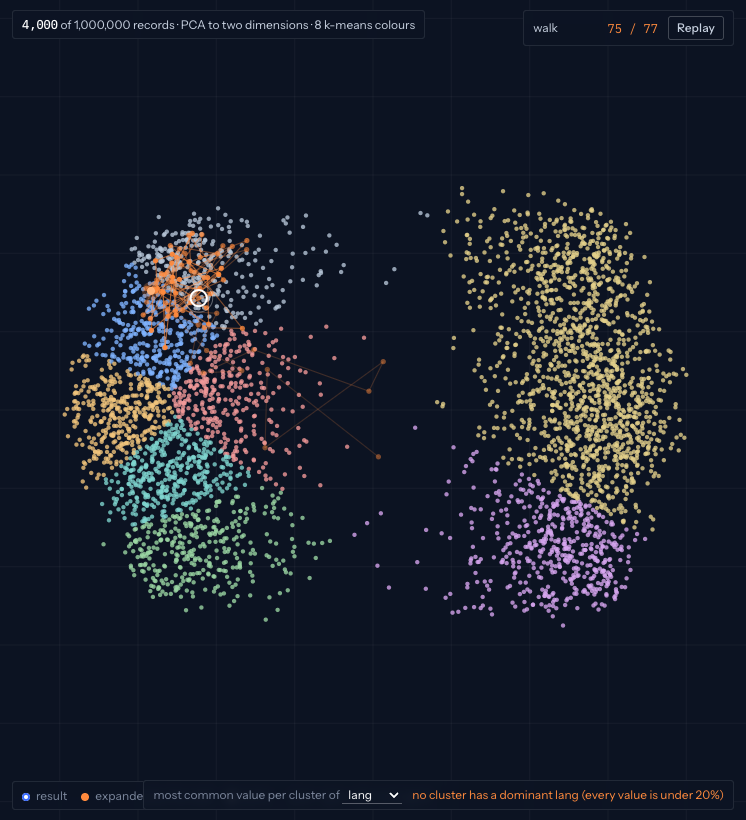
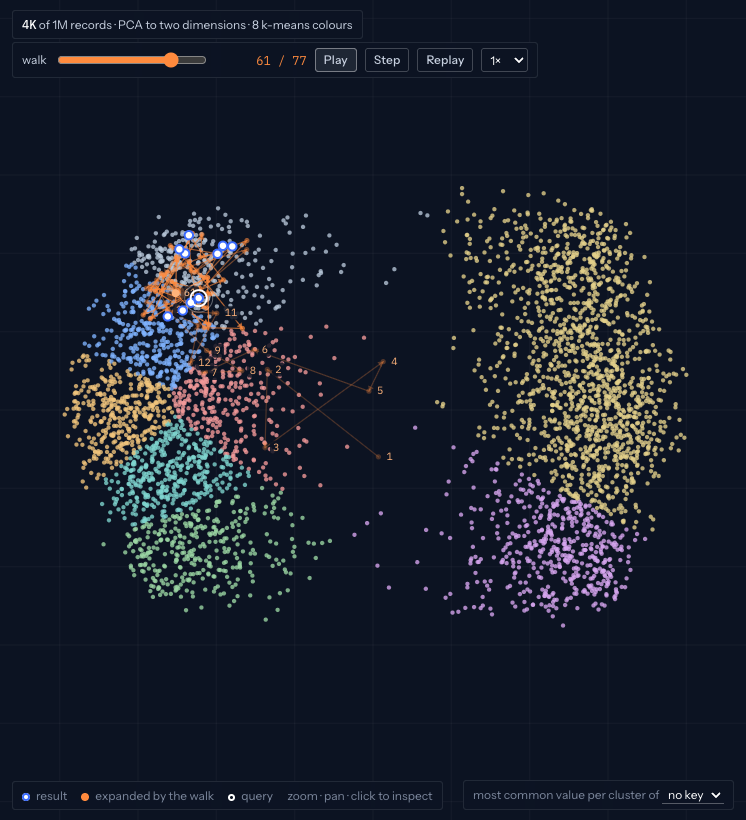
studio: the walk reads as a path (arrowheads, numbered expansions, head marker) with a transport bar: scrubber, play/pause, step, replay, speed, keyboard

diff --git a/studio/ui/index.html b/studio/ui/index.html
@@ -107,10 +107,13 @@ main{position:relative;background:var(--stage);overflow:hidden;min-height:0}
 canvas{display:block;width:100%;height:100%;cursor:crosshair}
 .hud{position:absolute;font-size:12px;color:var(--stage-ink);background:rgba(12,19,34,.78);backdrop-filter:blur(6px);border:1px solid rgba(255,255,255,.09);border-radius:var(--r);padding:5px 9px}
 .hud b{color:#fff;font:12px var(--mono);font-weight:500}
-.hud.title{left:12px;top:10px;white-space:nowrap;max-width:calc(100% - 300px);overflow:hidden;text-overflow:ellipsis}
-.hud.walk{right:12px;top:10px;display:flex;align-items:center;gap:10px}
+.hud.title{left:12px;top:10px;white-space:nowrap;max-width:calc(100% - 24px);overflow:hidden;text-overflow:ellipsis}
+.hud.walk{left:12px;top:42px;display:flex;align-items:center;gap:8px}
 .hud.walk[hidden]{display:none}
 .hud.walk .step{font:12px var(--mono);color:var(--walk);min-width:7.5em;text-align:right}
+.hud.walk input[type=range]{width:150px;accent-color:var(--walk);margin:0 2px}
+.hud.walk select{background:transparent;color:#fff;border:1px solid rgba(255,255,255,.22);border-radius:var(--r);font:12px var(--sans);padding:2px 4px;height:24px}
+.hud.walk select option{color:#0B1220}
 .hud.walk button{height:24px;padding:0 8px;font-size:12px;background:transparent;color:var(--stage-ink);border-color:rgba(255,255,255,.22)}
 .hud.walk button:hover{background:rgba(255,255,255,.08);border-color:rgba(255,255,255,.4)}
 .hud.legend{left:12px;bottom:10px;display:flex;gap:14px;align-items:center;color:var(--stage-muted);white-space:nowrap}
@@ -242,7 +245,13 @@ footer b{color:var(--ink);font:12px var(--mono);font-weight:500}
     <canvas id="map"></canvas>
     <div class="hud title" id="maptitle">Building the map…</div>
     <div class="hud walk" id="walkctl" hidden>
-      <span>walk</span><span class="step" id="walkstep"></span><button id="replay">Replay</button>
+      <span>walk</span>
+      <input type="range" id="scrub" min="0" max="1" value="0" step="1" aria-label="walk position">
+      <span class="step" id="walkstep"></span>
+      <button id="playpause" title="play / pause">Pause</button>
+      <button id="stepfwd" title="one expansion forward">Step</button>
+      <button id="replay" title="from the start">Replay</button>
+      <select id="speed" title="animation speed"><option value="0.25">¼×</option><option value="0.5">½×</option><option value="1" selected>1×</option><option value="2">2×</option><option value="4">4×</option></select>
     </div>
     <div class="hud empty" id="mapempty" hidden>Search from a record to see its neighbours and the path the graph walk took to reach them.</div>
     <div class="hud legend">
@@ -605,25 +614,48 @@ function draw() {
     }
   }
   // walk: trail in expansion order up to the animation step, older segments dimmer
-  const n = anim.running ? anim.t : result.walk.length;
+  const n = result.walk.length ? anim.t : 0;
   if (n > 0) {
     let prev = null;
+    ctx.lineCap = "round";
     for (let i = 0; i < n; i++) {
       const p = result.walk[i]; if (p.x === undefined) continue;
       const [sx, sy] = toScreen(p.x, p.y);
       const age = (n - i) / Math.max(1, n);
-      if (prev) { ctx.strokeStyle = "#FF8A3D"; ctx.globalAlpha = 0.18 + 0.5 * (1 - age); ctx.lineWidth = 1.1 * dpr; ctx.beginPath(); ctx.moveTo(prev[0], prev[1]); ctx.lineTo(sx, sy); ctx.stroke(); }
-      ctx.globalAlpha = 0.45 + 0.55 * (1 - age);
+      const alpha = 0.25 + 0.6 * (1 - age);
+      if (prev) {
+        // segment with an arrowhead pointing the way the walk went
+        ctx.strokeStyle = "#FF8A3D"; ctx.globalAlpha = alpha; ctx.lineWidth = 1.2 * dpr;
+        ctx.beginPath(); ctx.moveTo(prev[0], prev[1]); ctx.lineTo(sx, sy); ctx.stroke();
+        const dx = sx - prev[0], dy = sy - prev[1], len = Math.hypot(dx, dy);
+        if (len > 14 * dpr) {
+          const ux = dx / len, uy = dy / len, ax = sx - ux * 5 * dpr, ay = sy - uy * 5 * dpr, w = 3.2 * dpr;
+          ctx.fillStyle = "#FF8A3D";
+          ctx.beginPath(); ctx.moveTo(sx, sy); ctx.lineTo(ax - uy * w, ay + ux * w); ctx.lineTo(ax + uy * w, ay - ux * w); ctx.closePath(); ctx.fill();
+        }
+      }
+      ctx.globalAlpha = alpha;
       ctx.fillStyle = "#FF8A3D"; ctx.beginPath(); ctx.arc(sx, sy, 2.6 * dpr, 0, Math.PI * 2); ctx.fill();
       prev = [sx, sy];
     }
     ctx.globalAlpha = 1;
-    if (anim.running && prev) { // head
+    // the order of the first expansions, numbered, and the last one
+    ctx.font = `${10.5 * dpr}px "IBM Plex Mono", ui-monospace, monospace`; ctx.textAlign = "left"; ctx.textBaseline = "middle";
+    const label = (i) => {
+      const p = result.walk[i]; if (!p || p.x === undefined) return;
+      const [sx, sy] = toScreen(p.x, p.y);
+      const t = String(i + 1), w = ctx.measureText(t).width + 6 * dpr;
+      ctx.fillStyle = "rgba(12,19,34,.85)"; ctx.beginPath(); ctx.roundRect(sx + 5 * dpr, sy - 7 * dpr, w, 14 * dpr, 3 * dpr); ctx.fill();
+      ctx.fillStyle = "#FFB37A"; ctx.fillText(t, sx + 8 * dpr, sy);
+    };
+    for (let i = 0; i < Math.min(n, 12); i++) label(i);
+    if (n > 12) label(n - 1);
+    if (prev) { // head
       ctx.fillStyle = "rgba(255,138,61,.25)"; ctx.beginPath(); ctx.arc(prev[0], prev[1], 9 * dpr, 0, Math.PI * 2); ctx.fill();
       ctx.fillStyle = "#FFB37A"; ctx.beginPath(); ctx.arc(prev[0], prev[1], 4 * dpr, 0, Math.PI * 2); ctx.fill();
     }
   }
-  if (!anim.running) for (const hh of result.hits) {
+  if (!anim.running || anim.t >= anim.total) for (const hh of result.hits) {
     if (hh.x === undefined) continue;
     const [sx, sy] = toScreen(hh.x, hh.y);
     ctx.fillStyle = "#fff"; ctx.beginPath(); ctx.arc(sx, sy, 4.2 * dpr, 0, Math.PI * 2); ctx.fill();
@@ -641,21 +673,47 @@ function draw() {
     if (p) { const [x, y] = Array.isArray(p) ? [p[1], p[2]] : [p.x, p.y]; if (x !== undefined) { const [sx, sy] = toScreen(x, y); ctx.strokeStyle = "#fff"; ctx.lineWidth = 1.5 * dpr; ctx.setLineDash([3 * dpr, 3 * dpr]); ctx.beginPath(); ctx.arc(sx, sy, 10 * dpr, 0, Math.PI * 2); ctx.stroke(); ctx.setLineDash([]); } }
   }
 }
-function startAnim() {
-  if (matchMedia("(prefers-reduced-motion: reduce)").matches) { anim = {t: result.walk.length, total: result.walk.length, running: false}; $("walkstep").textContent = `${anim.total} / ${anim.total}`; draw(); return; }
-  anim = {t: 0, total: result.walk.length, running: true};
-  const frames = 110, start = performance.now();
+/* walk animation: `anim.t` expansions are drawn; play advances it at
+   `speed` × 40 expansions per second, scrub and step set it directly. */
+function setT(t) {
+  anim.t = Math.max(0, Math.min(anim.total, Math.round(t)));
+  $("scrub").value = anim.t;
+  $("walkstep").textContent = `${anim.t} / ${anim.total}`;
+  draw();
+}
+function play() {
+  if (anim.total === 0) return;
+  if (anim.t >= anim.total) anim.t = 0;
+  anim.running = true; $("playpause").textContent = "Pause";
+  let last = performance.now(), acc = anim.t;
   function tick(now) {
-    const u = Math.min(1, (now - start) / (frames * 16.7));
-    const eased = 1 - Math.pow(1 - u, 2.2);
-    anim.t = Math.max(1, Math.round(eased * anim.total));
-    $("walkstep").textContent = `${anim.t} / ${anim.total}`;
-    draw();
-    if (u < 1) requestAnimationFrame(tick); else { anim.running = false; draw(); }
+    if (!anim.running) return;
+    const rate = 40 * (+$("speed").value || 1);
+    acc += (now - last) / 1000 * rate; last = now;
+    setT(acc);
+    if (anim.t >= anim.total) { anim.running = false; $("playpause").textContent = "Play"; draw(); return; }
+    requestAnimationFrame(tick);
   }
   requestAnimationFrame(tick);
 }
+function pause() { anim.running = false; $("playpause").textContent = "Play"; draw(); }
+function startAnim() {
+  anim = {t: 0, total: result.walk.length, running: false};
+  $("scrub").max = anim.total; setT(0);
+  if (matchMedia("(prefers-reduced-motion: reduce)").matches) { setT(anim.total); $("playpause").textContent = "Play"; return; }
+  play();
+}
 $("replay").onclick = startAnim;
+$("playpause").onclick = () => anim.running ? pause() : play();
+$("stepfwd").onclick = () => { pause(); setT(anim.t + 1); };
+$("scrub").oninput = (e) => { pause(); setT(+e.target.value); };
+$("speed").onchange = () => { if (anim.running) { pause(); play(); } };
+window.addEventListener("keydown", e => {
+  if (e.target.tagName === "INPUT" || e.target.tagName === "TEXTAREA" || e.target.tagName === "SELECT" || !result.walk.length) return;
+  if (e.key === " ") { e.preventDefault(); anim.running ? pause() : play(); }
+  if (e.key === "ArrowRight") { pause(); setT(anim.t + 1); }
+  if (e.key === "ArrowLeft") { pause(); setT(anim.t - 1); }
+});
 canvas.addEventListener("wheel", e => { e.preventDefault(); view.z *= Math.exp(-e.deltaY * 0.0015); view.z = Math.min(60, Math.max(0.3, view.z)); draw(); }, {passive: false});
 let drag = null;
 canvas.addEventListener("mousedown", e => { drag = {x: e.clientX, y: e.clientY, vx: view.x, vy: view.y, moved: false}; });

diff --git a/docs/studio.md b/docs/studio.md
@@ -103,9 +103,13 @@ score; both are ranks more than distances.
 ![the map with the walk of one search](img/studio-3-walk.png)
 
 The white ring is the query. The amber trail is every node the graph walk
-expanded, in the order it expanded them, older segments dimmer; the
-counter at the top right shows how far the replay is and Replay runs it
-again. The blue-ringed points are the results. Scroll to zoom, drag to
+expanded, in the order it expanded them: each segment carries an arrowhead
+in the direction the walk went, the first twelve expansions are numbered,
+the latest one is marked, and older segments fade. The transport bar
+under the map title plays the walk at ¼× to 4×, pauses it, steps one
+expansion at a time, replays from the start, and has a scrubber you can
+drag; space, left and right arrow do the same from the keyboard. The
+blue-ringed points are the results. Scroll to zoom, drag to
 pan, hover a point for its id, click a point to inspect it. Searches are
 projected onto the same plane as the map, so a walk that heads across the
 map before settling is a real property of the graph, not of the drawing.
